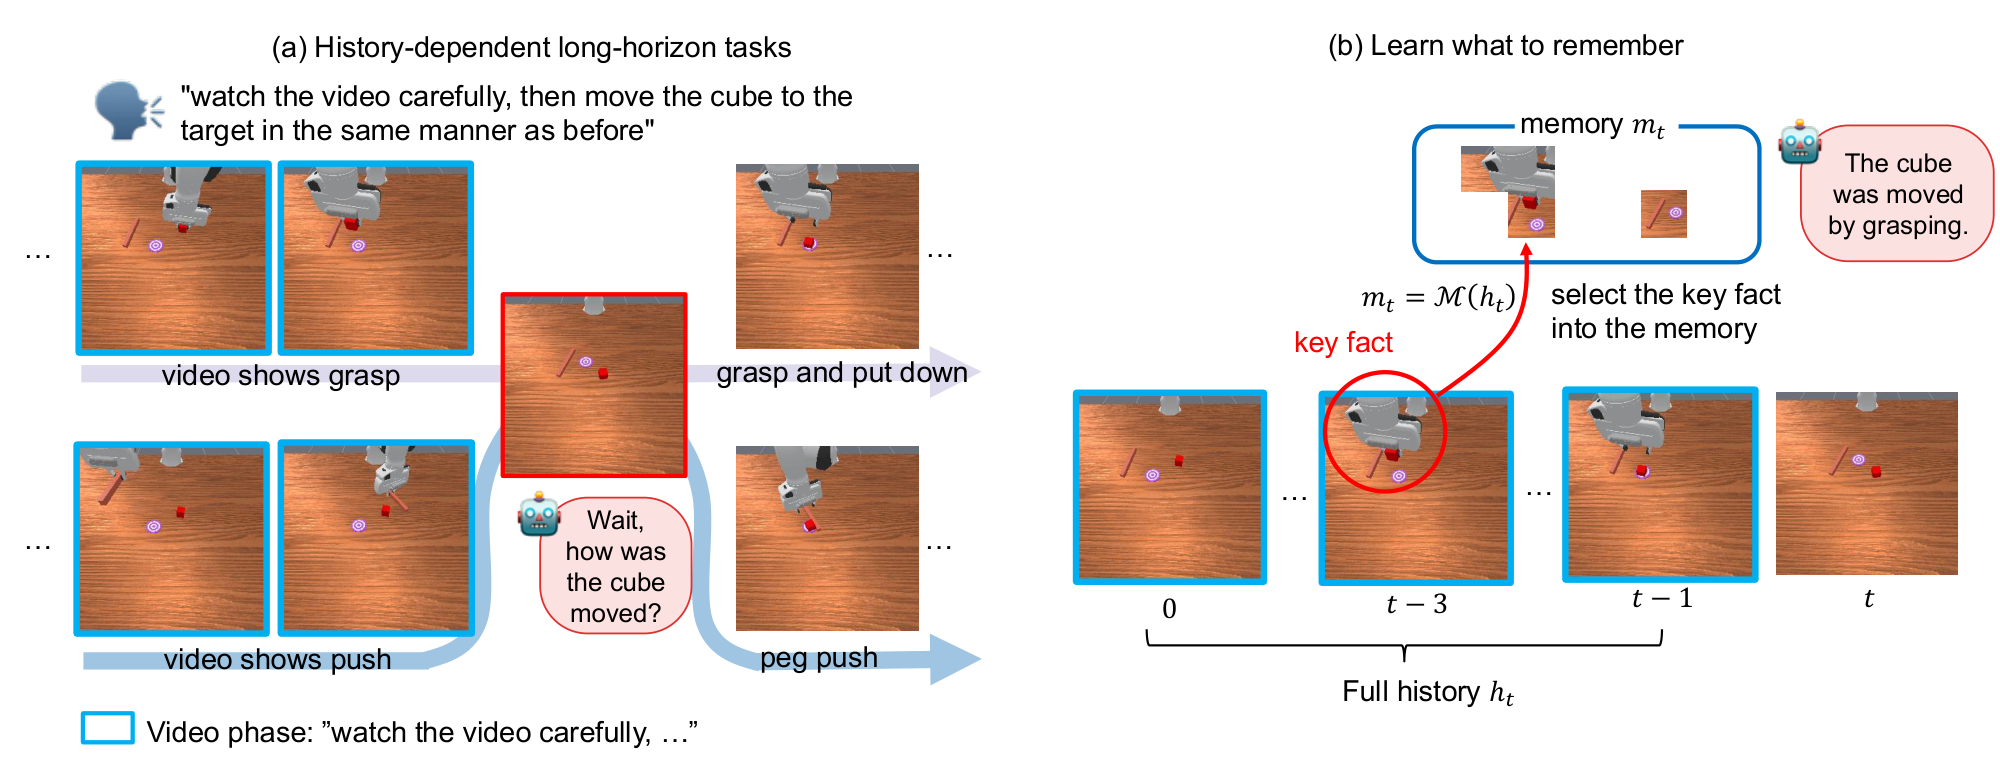
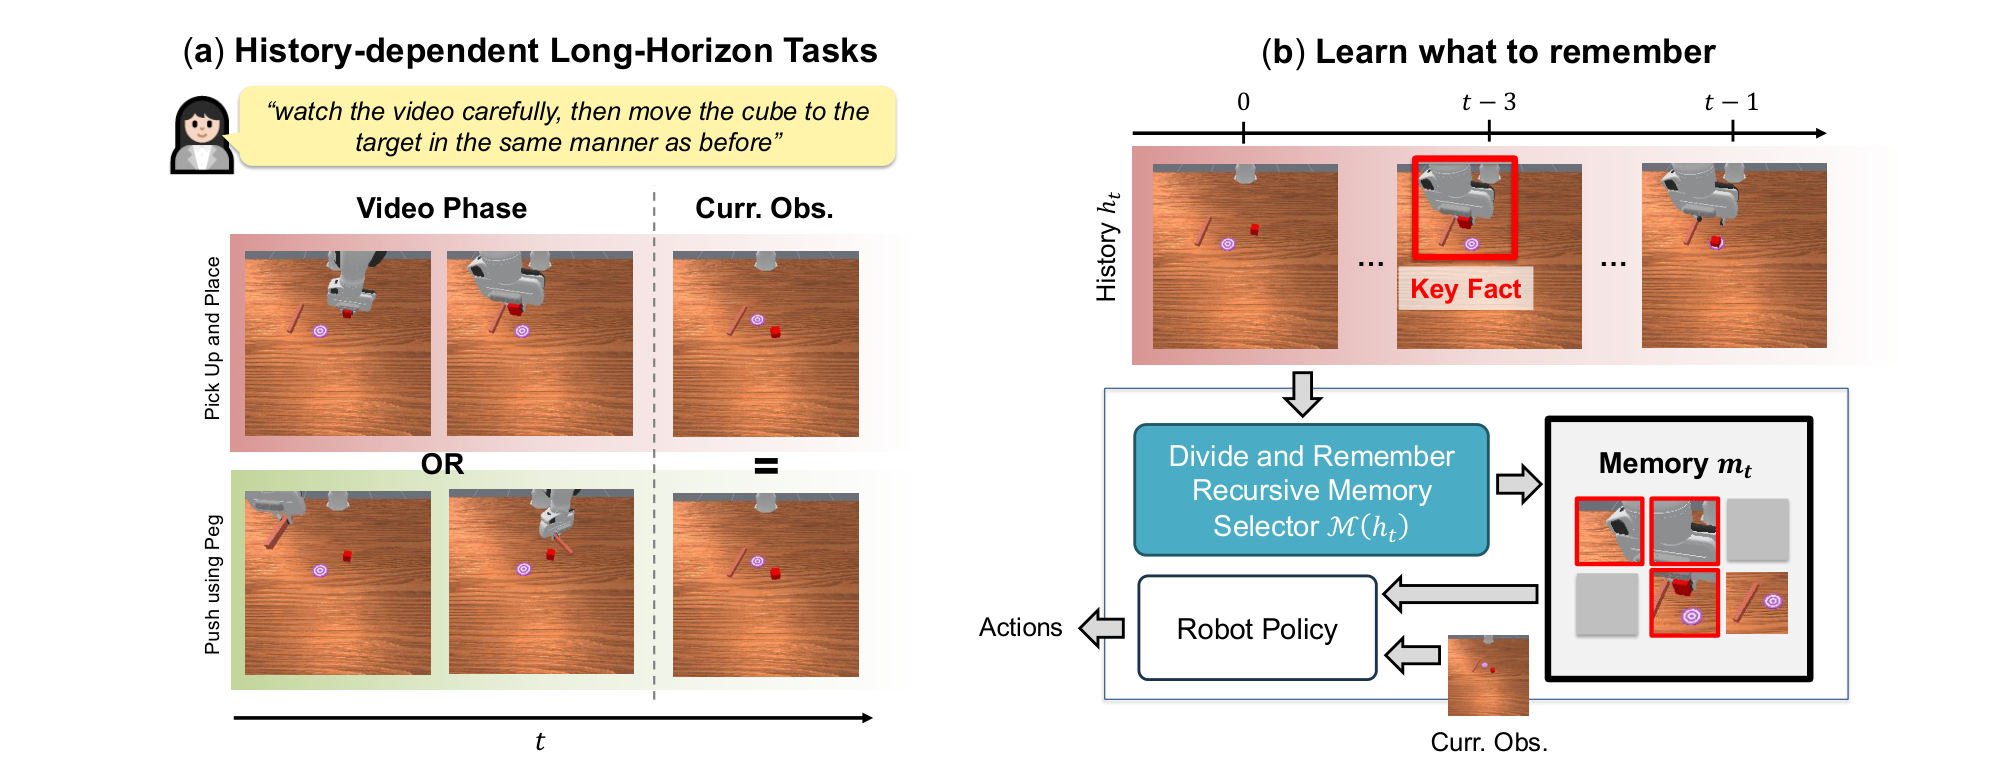
Teaser and caption as in the paper (Figure 1 v2); abstract synced; venue line, BibTeX and footer made venue-neutral

diff --git a/index.html b/index.html
@@ -79,7 +79,7 @@
 <header>
   <h1>Divide-and-Remember<span class="sub">Recursive Action-Relevant Memory for Long-Horizon VLA Policies</span></h1>
   <div class="authors">Anonymous authors</div>
-  <div class="venue">Under review at ICLR 2027</div>
+  <div class="venue">Preprint, 2026</div>
   <div class="btns">
     <span class="btn soon">Paper (coming soon)</span>
     <span class="btn soon">Code (coming soon)</span>
@@ -88,11 +88,11 @@
 
 <figure>
   <img src="assets/teaser.png" alt="Memory is a question of what to remember">
-  <figcaption><b>Memory is a question of what to remember.</b> (a) A history-dependent task: &ldquo;watch the video carefully, then move the cube to the target in the same manner as before&rdquo;. Two videos show different manners (grasp and put down versus peg push), yet at time step <i>t</i> the robot sees the <em>same</em> observation (red). A memoryless policy cannot recall how the cube was moved. (b) We view memory as an optimisation problem: find the memory <i>m<sub>t</sub></i> = 𝓜(<i>h<sub>t</sub></i>), retrieved from the full history, that carries the key fact the current observation lacks (here, the grasp pose at <i>t</i>&minus;3). D&amp;R learns this retrieval end-to-end from the action loss, under a limited budget of memory tokens.</figcaption>
+  <figcaption><b>Memory is a question of what to remember.</b> (a) A history-dependent task: &ldquo;watch the video carefully, then move the cube to the target in the same manner as before&rdquo;. Two videos show different manners (pick-and-place versus peg push), yet at time step <i>t</i> the robot sees the <em>same</em> observation. A memoryless policy cannot recall how the cube was moved. (b) We view memory as an optimisation problem: find the memory <i>m<sub>t</sub></i> = 𝓜(<i>h<sub>t</sub></i>), selected from the full history, that carries the key fact the current observation lacks (here, the grasp pose at <i>t</i>&minus;3), so that the policy knows how to move the cube.</figcaption>
 </figure>
 
 <h2>Abstract</h2>
-<p>Vision–language–action (VLA) models struggle on history-dependent manipulation tasks, where the current observation alone does not determine the action, and the policy needs a memory of the history. Existing memory methods decide what to remember by design, for example keeping frames with large pixel changes, and show inconsistent gains across tasks. We view what to remember as an optimisation problem. From the POMDP formulation of imitation learning, we show that the optimal memory maximises the conditional mutual information <i>I</i>(<i>a<sub>t</sub></i>; <i>m<sub>t</sub></i> | <i>o<sub>t</sub></i>) between the action and the memory given the current observation, the information the decision needs but the observation lacks. We propose <b>Divide-and-Remember (D&amp;R)</b>, a recursive memory method that learns <i>m<sub>t</sub></i> = 𝓜(<i>h<sub>t</sub></i>) to maximise this objective, scaling to long contexts while staying compute-light. It involves two strategies: (1) the selection over the full history is divided recursively into subproblems of top-<i>K</i> selection over 2<i>K</i> tokens, so that fixed-size, lightweight selectors learned end-to-end support an unbounded history, and the composition comes with an approximation guarantee; (2) all recursion blocks share one selector, which captures the selection rule common to every block and keeps the method efficient. On RoboMME, a benchmark of 16 long-horizon manipulation tasks, D&amp;R achieves a state-of-the-art average success rate with consistent gains across all four suites under a budget of only 64 tokens; real-robot experiments show the same gain.</p>
+<p>Vision–language–action (VLA) models struggle on history-dependent manipulation tasks, where the current observation alone does not determine the action, and the policy needs a memory of the history. Existing memory methods decide what to remember by design, for example, keeping frames with large pixel changes, and show inconsistent gains across tasks. We view what to remember as an optimisation problem. From the POMDP formulation of imitation learning, we show that the optimal memory maximises the conditional mutual information <i>I</i>(<i>a<sub>t</sub></i>; <i>m<sub>t</sub></i> | <i>o<sub>t</sub></i>) between the action and the memory given the current observation. Intuitively, this means preserving the action-relevant information in the history that is not already contained in the current observation. Based on our analysis, we propose <b>Divide-and-Remember (D&amp;R)</b>, a recursive memory method that learns a memory function <i>m<sub>t</sub></i> = 𝓜(<i>h<sub>t</sub></i>) and scales to long contexts while staying compute-light. It involves two strategies: (1) the selection over the full history is divided recursively into subproblems of top-<i>K</i> selection over 2<i>K</i> tokens, so that fixed-size, lightweight selectors learned end-to-end support an unbounded history; (2) all recursion blocks share one selector, which captures the selection rule common to every block and keeps the method efficient. On RoboMME, a benchmark of 16 long-horizon manipulation tasks that require remembering when, where, what, and how to act, D&amp;R achieves a state-of-the-art average success rate with consistent gains across all four suites under a budget of only 64 tokens; real-robot experiments show the same gain.</p>
 
 <h2 class="sim-title">Simulation Rollout Demos</h2>
 <p>Front and wrist camera of the RoboMME evaluation episodes. The same episode id is the same environment across methods; pick the episode and the two methods to compare. All methods share the &pi;<sub>0.5</sub> backbone; the memoryless &pi;<sub>0.5</sub> sees only the current observation.</p>
@@ -239,14 +239,14 @@
 
 
 <h2>BibTeX</h2>
-<pre>@inproceedings{anonymous2027divide,
-  title     = {Divide-and-Remember: Recursive Action-Relevant Memory for Long-Horizon VLA Policies},
-  author    = {Anonymous},
-  booktitle = {Under review at the International Conference on Learning Representations (ICLR)},
-  year      = {2027}
+<pre>@misc{anonymous2026divide,
+  title  = {Divide-and-Remember: Recursive Action-Relevant Memory for Long-Horizon VLA Policies},
+  author = {Anonymous},
+  year   = {2026},
+  note   = {Preprint}
 }</pre>
 
-<footer>Anonymous project page for double-blind review.</footer>
+<footer>Anonymous project page.</footer>
 </div>
 <script>
   // Simulation Rollout Demos (robomme.github.io behaviour): goal text per episode, failure list, episode/model switching.

diff --git a/index.template.html b/index.template.html
@@ -79,7 +79,7 @@
 <header>
   <h1>Divide-and-Remember<span class="sub">Recursive Action-Relevant Memory for Long-Horizon VLA Policies</span></h1>
   <div class="authors">Anonymous authors</div>
-  <div class="venue">Under review at ICLR 2027</div>
+  <div class="venue">Preprint, 2026</div>
   <div class="btns">
     <span class="btn soon">Paper (coming soon)</span>
     <span class="btn soon">Code (coming soon)</span>
@@ -88,11 +88,11 @@
 
 <figure>
   <img src="assets/teaser.png" alt="Memory is a question of what to remember">
-  <figcaption><b>Memory is a question of what to remember.</b> (a) A history-dependent task: &ldquo;watch the video carefully, then move the cube to the target in the same manner as before&rdquo;. Two videos show different manners (grasp and put down versus peg push), yet at time step <i>t</i> the robot sees the <em>same</em> observation (red). A memoryless policy cannot recall how the cube was moved. (b) We view memory as an optimisation problem: find the memory <i>m<sub>t</sub></i> = 𝓜(<i>h<sub>t</sub></i>), retrieved from the full history, that carries the key fact the current observation lacks (here, the grasp pose at <i>t</i>&minus;3). D&amp;R learns this retrieval end-to-end from the action loss, under a limited budget of memory tokens.</figcaption>
+  <figcaption><b>Memory is a question of what to remember.</b> (a) A history-dependent task: &ldquo;watch the video carefully, then move the cube to the target in the same manner as before&rdquo;. Two videos show different manners (pick-and-place versus peg push), yet at time step <i>t</i> the robot sees the <em>same</em> observation. A memoryless policy cannot recall how the cube was moved. (b) We view memory as an optimisation problem: find the memory <i>m<sub>t</sub></i> = 𝓜(<i>h<sub>t</sub></i>), selected from the full history, that carries the key fact the current observation lacks (here, the grasp pose at <i>t</i>&minus;3), so that the policy knows how to move the cube.</figcaption>
 </figure>
 
 <h2>Abstract</h2>
-<p>Vision–language–action (VLA) models struggle on history-dependent manipulation tasks, where the current observation alone does not determine the action, and the policy needs a memory of the history. Existing memory methods decide what to remember by design, for example keeping frames with large pixel changes, and show inconsistent gains across tasks. We view what to remember as an optimisation problem. From the POMDP formulation of imitation learning, we show that the optimal memory maximises the conditional mutual information <i>I</i>(<i>a<sub>t</sub></i>; <i>m<sub>t</sub></i> | <i>o<sub>t</sub></i>) between the action and the memory given the current observation, the information the decision needs but the observation lacks. We propose <b>Divide-and-Remember (D&amp;R)</b>, a recursive memory method that learns <i>m<sub>t</sub></i> = 𝓜(<i>h<sub>t</sub></i>) to maximise this objective, scaling to long contexts while staying compute-light. It involves two strategies: (1) the selection over the full history is divided recursively into subproblems of top-<i>K</i> selection over 2<i>K</i> tokens, so that fixed-size, lightweight selectors learned end-to-end support an unbounded history, and the composition comes with an approximation guarantee; (2) all recursion blocks share one selector, which captures the selection rule common to every block and keeps the method efficient. On RoboMME, a benchmark of 16 long-horizon manipulation tasks, D&amp;R achieves a state-of-the-art average success rate with consistent gains across all four suites under a budget of only 64 tokens; real-robot experiments show the same gain.</p>
+<p>Vision–language–action (VLA) models struggle on history-dependent manipulation tasks, where the current observation alone does not determine the action, and the policy needs a memory of the history. Existing memory methods decide what to remember by design, for example, keeping frames with large pixel changes, and show inconsistent gains across tasks. We view what to remember as an optimisation problem. From the POMDP formulation of imitation learning, we show that the optimal memory maximises the conditional mutual information <i>I</i>(<i>a<sub>t</sub></i>; <i>m<sub>t</sub></i> | <i>o<sub>t</sub></i>) between the action and the memory given the current observation. Intuitively, this means preserving the action-relevant information in the history that is not already contained in the current observation. Based on our analysis, we propose <b>Divide-and-Remember (D&amp;R)</b>, a recursive memory method that learns a memory function <i>m<sub>t</sub></i> = 𝓜(<i>h<sub>t</sub></i>) and scales to long contexts while staying compute-light. It involves two strategies: (1) the selection over the full history is divided recursively into subproblems of top-<i>K</i> selection over 2<i>K</i> tokens, so that fixed-size, lightweight selectors learned end-to-end support an unbounded history; (2) all recursion blocks share one selector, which captures the selection rule common to every block and keeps the method efficient. On RoboMME, a benchmark of 16 long-horizon manipulation tasks that require remembering when, where, what, and how to act, D&amp;R achieves a state-of-the-art average success rate with consistent gains across all four suites under a budget of only 64 tokens; real-robot experiments show the same gain.</p>
 
 <h2 class="sim-title">Simulation Rollout Demos</h2>
 <p>Front and wrist camera of the RoboMME evaluation episodes. The same episode id is the same environment across methods; pick the episode and the two methods to compare. All methods share the &pi;<sub>0.5</sub> backbone; the memoryless &pi;<sub>0.5</sub> sees only the current observation.</p>
@@ -104,14 +104,14 @@
 
 
 <h2>BibTeX</h2>
-<pre>@inproceedings{anonymous2027divide,
-  title     = {Divide-and-Remember: Recursive Action-Relevant Memory for Long-Horizon VLA Policies},
-  author    = {Anonymous},
-  booktitle = {Under review at the International Conference on Learning Representations (ICLR)},
-  year      = {2027}
+<pre>@misc{anonymous2026divide,
+  title  = {Divide-and-Remember: Recursive Action-Relevant Memory for Long-Horizon VLA Policies},
+  author = {Anonymous},
+  year   = {2026},
+  note   = {Preprint}
 }</pre>
 
-<footer>Anonymous project page for double-blind review.</footer>
+<footer>Anonymous project page.</footer>
 </div>
 <!--ROLLOUTS_JS-->
 </body>
